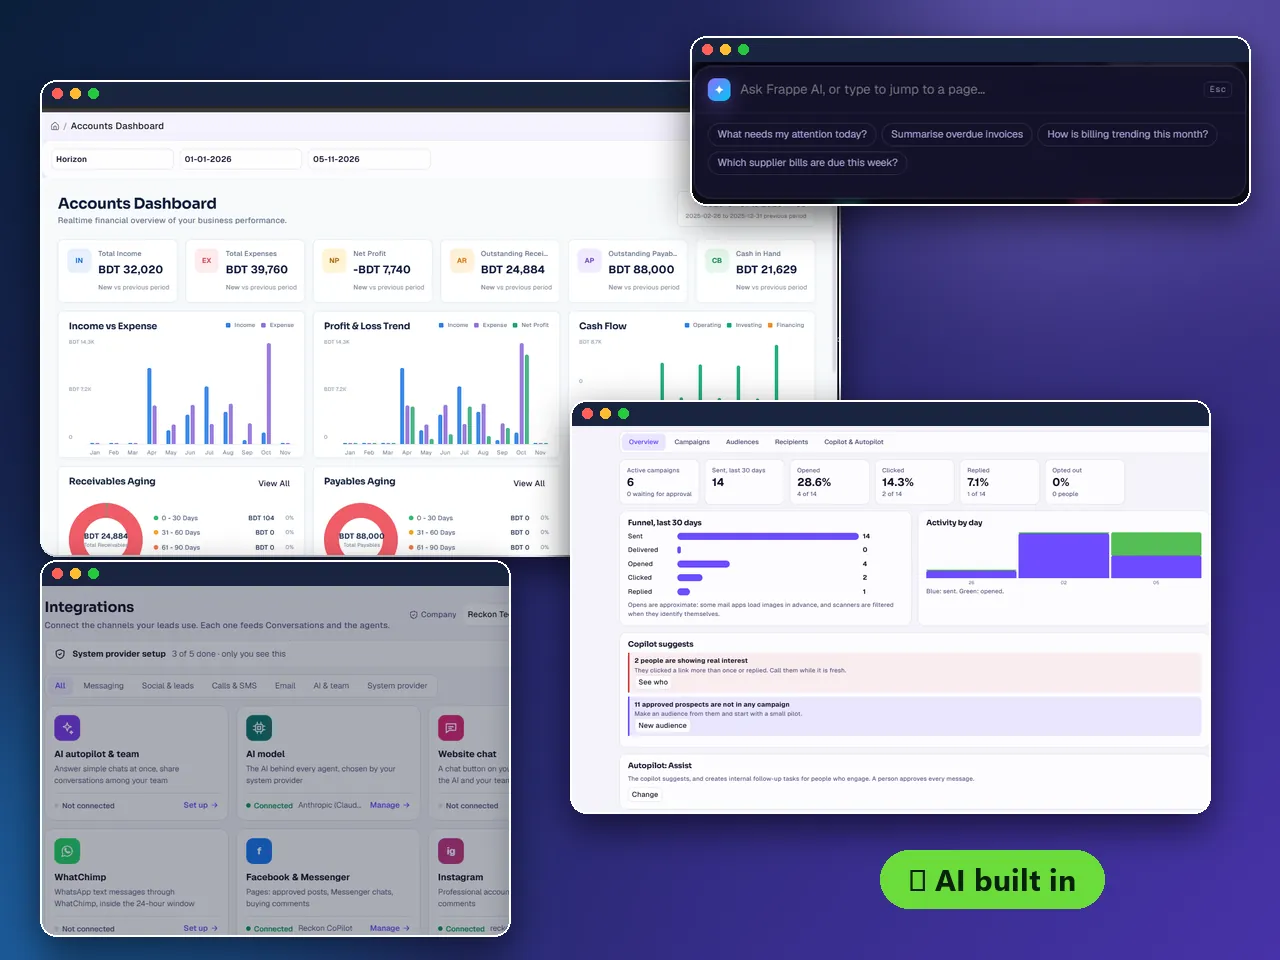
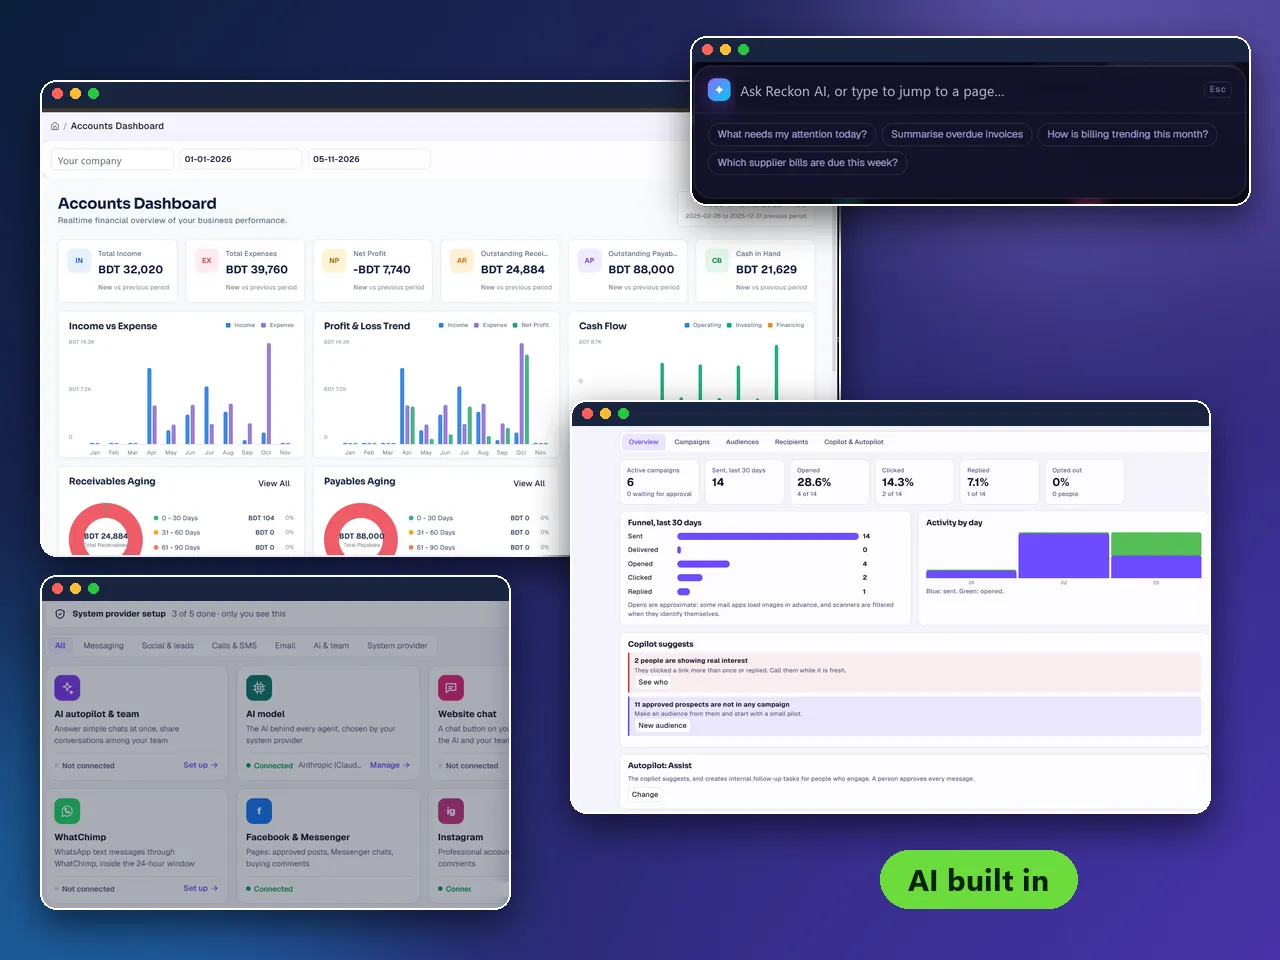
feat: Reckon AI branding, no framework name, product family and two feature pages
Hero screens redacted of demo company names; the AI palette now reads Ask Reckon AI.

diff --git a/reckon_saas_platform/www/index.html b/reckon_saas_platform/www/index.html
@@ -22,13 +22,13 @@
 <section class="ai-band" aria-labelledby="ai-h">
   <div class="wrap cols">
     <div>
-      <p class="eyebrow">AI inside every module</p>
+      <p class="eyebrow">Reckon AI inside every module</p>
       <h2 id="ai-h">AI that works on your own records, with a person in charge</h2>
       <ul class="tick">
         {% for point in ai_points %}<li>{{ point|e }}</li>{% endfor %}
       </ul>
       <p class="note">{{ ai_note|e }}</p>
-      <div class="actions"><a class="btn solid lg" href="/features/ai-assisted-selling">See AI features</a><a class="btn lg" href="/reckonerp-signup">Sign up</a></div>
+      <div class="actions"><a class="btn solid lg" href="/features/reckon-ai-assistant">Meet Reckon AI</a><a class="btn lg" href="/reckonerp-signup">Sign up</a></div>
     </div>
     <img src="/assets/reckon_saas_platform/images/illus-ai.svg" width="480" height="320" alt="AI assistant drafting a reply that waits for a person to approve" loading="lazy" decoding="async">
   </div>

diff --git a/reckon_saas_platform/www/reckon_modules.html b/reckon_saas_platform/www/reckon_modules.html
@@ -56,6 +56,17 @@
     </ul>
   </div>
 </section>
+<section class="alt" aria-labelledby="fam-h">
+  <div class="wrap">
+    <div class="head"><h2 id="fam-h">More from Reckon, on request</h2><p>{{ page.family_note|e }}</p></div>
+    <ul class="grid">
+      {% for app in page.family %}
+      <li><article class="card"><h3>{{ app.name|e }}</h3><p>{{ app.text|e }}</p>{% if app.url %}<a class="more" href="{{ app.url|e }}">Learn more<span class="sr"> about {{ app.name|e }}</span></a>{% endif %}</article></li>
+      {% endfor %}
+    </ul>
+    <p class="note"><a href="https://wa.me/{{ whatsapp_number|e }}" rel="noopener">Ask about these on WhatsApp</a> or write to <a href="mailto:{{ support_email|e }}">{{ support_email|e }}</a>.</p>
+  </div>
+</section>
 {{ m.cta("Pick a module and start", "Sign up, verify, and your workspace is created.", "/reckonerp-signup") }}
 {% endif %}
 {% endblock %}

diff --git a/reckon_saas_platform/marketing.py b/reckon_saas_platform/marketing.py
@@ -62,6 +62,8 @@ FEATURE_ILLUSTRATION = {
     "roles-and-security": "crm",
     "integrations-and-channels": "automation",
     "ai-assisted-selling": "ai",
+    "reckon-ai-assistant": "ai",
+    "field-sales-and-visits": "crm",
 }
 
 # Crawlers that fetch pages for search and AI answers. All are welcome on the
@@ -363,6 +365,63 @@ FEATURE_LIST = (
         ],
     },
     {
+        "slug": "reckon-ai-assistant",
+        "title": "Reckon AI assistant",
+        "icon": "spark",
+        "summary": "Ask questions about your own records and approve the actions it suggests.",
+        "description": "Reckon AI answers questions from your own ERP records, raises insights, "
+        "alerts and forecasts, and changes data only after you review and approve.",
+        "intro": "Reckon AI sits inside the ERP. It works from the records the signed-in person "
+        "is allowed to see, explains what needs attention, and proposes actions that the "
+        "person reviews before anything is applied.",
+        "points": [
+            "Answers questions from your own records, limited to what you may open",
+            "Insights, alerts, forecasting and anomaly detection for the numbers you track",
+            "A catalogue of suggested actions that learns from your feedback",
+            "Preview first: you review the values and approve, permissions are checked again "
+            "and every confirmed action is logged",
+        ],
+        "faqs": [
+            (
+                "Can Reckon AI change my data on its own?",
+                "No. It shows a preview of the target and values. Nothing is applied until you "
+                "approve, and the server checks your permissions again at that moment.",
+            ),
+            (
+                "Can it see other people's records?",
+                "It works inside the permissions of the person asking, so it cannot read what "
+                "that person cannot open.",
+            ),
+            (
+                "Is Reckon AI included in the subscription?",
+                "AI and integration tools are additional. Ask us for pricing for your usage.",
+            ),
+        ],
+    },
+    {
+        "slug": "field-sales-and-visits",
+        "title": "Field sales visits",
+        "icon": "route",
+        "summary": "Schedule customer visits, check in with GPS and keep a history of every visit.",
+        "description": "Plan field visits against leads, deals and customers, check in and out "
+        "with GPS, see visits on a map and keep outcomes and follow-ups.",
+        "intro": "Reckon CRM adds field sales to your customer records: managers schedule visits, "
+        "reps check in on site, and every completed visit keeps its outcome and next step.",
+        "points": [
+            "Schedule visits for several team members against a lead, deal or organisation",
+            "Interactive map with the customer's location and a geofence",
+            "GPS check-in and check-out at the time of the visit",
+            "Completed visits keep their outcome, notes, duration and follow-up date",
+        ],
+        "faqs": [
+            (
+                "Is field sales part of self-serve signup?",
+                "Reckon CRM is offered on request, on a dedicated cloud or on-premises. Message "
+                "us and we will set it up with you.",
+            ),
+        ],
+    },
+    {
         "slug": "ai-assisted-selling",
         "title": "AI-assisted selling",
         "icon": "spark",
@@ -377,7 +436,7 @@ FEATURE_LIST = (
             "Discovery campaigns that find businesses to contact",
             "Website research that keeps its evidence next to each claim",
             "Deterministic lead scoring you can read and explain",
-            "Frappe CRM sync and email sequences that wait for approval",
+            "CRM sync and email sequences that wait for approval",
         ],
         "faqs": [
             (
@@ -435,7 +494,7 @@ MODULE_COPY = {
         "benefits": [
             "Run discovery campaigns to find businesses worth contacting",
             "Research each lead from its website and keep the evidence",
-            "Score leads with fixed rules, then sync them to Frappe CRM",
+            "Score leads with fixed rules, then sync them to your CRM",
             "Send email, SMS and WhatsApp follow-ups only after a person approves",
         ],
         "faqs": [
@@ -469,7 +528,7 @@ FEATURE_LABELS = {
     "lead_discovery_campaigns": "Lead discovery campaigns",
     "website_research_with_evidence": "Website research with evidence",
     "deterministic_lead_scoring": "Rule-based lead scoring",
-    "frappe_crm_sync": "Frappe CRM sync",
+    "frappe_crm_sync": "CRM sync",
     "email_sequences_with_approval": "Email sequences with approval",
     "claude_ai_research_and_drafting": "AI research and drafting",
 }
@@ -484,11 +543,50 @@ SHOWCASE = (
 )
 
 AI_POINTS = (
-    "Reads and summarises invoices, orders, stock and customer records so people find answers faster",
+    "Reckon AI reads and summarises invoices, orders, stock and customer records so people find answers faster",
     "Researches leads from their own websites and keeps the evidence next to every claim",
     "Drafts replies and follow-ups; a person approves before anything is sent",
-    "Scores leads with fixed rules you can read, then syncs them to Frappe CRM",
+    "Scores leads with fixed rules you can read, then syncs them to your CRM",
 )
+FAMILY_APPS = (
+    {
+        "name": "Reckon AI assistant",
+        "text": "Ask questions about your own records, get insights and alerts, and approve "
+        "suggested actions.",
+        "url": "/features/reckon-ai-assistant",
+    },
+    {
+        "name": "Reckon CRM",
+        "text": "Field sales on your CRM: visit scheduling, GPS check-in and check-out, customer "
+        "maps and visit history.",
+        "url": "/features/field-sales-and-visits",
+    },
+    {
+        "name": "Reckon Constructions",
+        "text": "Construction projects from estimate to bill: BOQ revisions, measurements, rate "
+        "analysis, procurement, site execution, variations and progress certificates.",
+    },
+    {
+        "name": "Reckon HRMS",
+        "text": "Simple HR for small teams: employees, attendance, salary and bulk salary payment, "
+        "payslip PDFs and HR reports.",
+    },
+    {
+        "name": "Reckon HR Policy",
+        "text": "Configurable attendance consequences and payroll additions that follow your own "
+        "company policy.",
+    },
+    {
+        "name": "Restaurant and central kitchen",
+        "text": "Branches that share a central store and kitchen: requisition, stock movement, "
+        "production, delivery and branch-wise sales.",
+    },
+)
+FAMILY_NOTE = (
+    "These products are offered on request, on a dedicated cloud or on-premises, and are not on "
+    "self-serve signup yet. Customisation and implementation are quoted separately."
+)
+
 AI_NOTE = "AI and integration tools are billed separately from the module subscription."
 
 DEPLOYMENTS = (
@@ -511,7 +609,7 @@ DEPLOYMENTS = (
 HOME_FAQS = (
     (
         "What is ReckonERP?",
-        "ReckonERP is a cloud ERP for businesses in Bangladesh, built on ERPNext, with AI "
+        "ReckonERP is a cloud ERP for businesses in Bangladesh, built on ERPNext, with Reckon AI "
         "built in. You pick the modules you need, such as Distribution, Accounts or the "
         "Sales AI Agent, and each company works in its own private workspace.",
     ),
@@ -553,7 +651,7 @@ HOME_FAQS = (
     (
         "What about licences?",
         "ReckonERP is a subscription service: your subscription lets your company use the "
-        "modules you subscribed to. The platform is built on open-source ERPNext and Frappe. "
+        "modules you subscribed to. The platform is built on open-source ERP technology. "
         "Licence terms for dedicated and on-premises installations are agreed in the quote.",
     ),
     (
@@ -872,6 +970,8 @@ def modules_page(base: str, modules: list[dict]) -> dict:
         h1="Choose the modules your business needs",
         trail=[("Home", HOME), ("Modules", MODULES)],
         modules=modules,
+        family=FAMILY_APPS,
+        family_note=FAMILY_NOTE,
     )
 
 
@@ -951,6 +1051,9 @@ def llms_txt(base: str, modules: list[dict], integrations=None) -> str:
     ]
     for module in modules:
         lines.append(f"- [{module['name']}]({base}{module['url']}): {module['tagline']}")
+    lines += ["", "## More from Reckon (on request)", ""]
+    for app in FAMILY_APPS:
+        lines.append(f"- {app['name']}: {app['text']}")
     lines += ["", "## Features", ""]
     for feature in FEATURE_LIST:
         lines.append(f"- [{feature['title']}]({base}{feature_url(feature['slug'])}): {feature['summary']}")
@@ -978,7 +1081,7 @@ def site_base() -> str:
 
 
 def apply_context(context, page: dict, modules: list[dict]) -> None:
-    """Put a page description and the shared header/footer data on a Frappe web context."""
+    """Put a page description and the shared header/footer data on a web context."""
     context.page = page
     context.glyphs = GLYPHS
     context.nav_features = FEATURE_LIST

diff --git a/tests/test_marketing_site_unit.py b/tests/test_marketing_site_unit.py
@@ -78,6 +78,28 @@ class _Links(HTMLParser):
 
 
 class MarketingDataTests(unittest.TestCase):
+    def test_site_never_names_the_framework(self):
+        with platform_modules("marketing") as (frappe, (marketing,)):
+            modules = _modules(marketing, frappe)
+            pages = all_pages(marketing, modules)
+            text = json.dumps(pages, default=str) + marketing.llms_txt(BASE, modules)
+            text += marketing.robots_txt(BASE) + marketing.sitemap_xml(BASE, modules)
+        self.assertNotIn("frappe", text.lower())
+
+    def test_family_products_are_listed_on_the_modules_page(self):
+        with platform_modules("marketing") as (frappe, (marketing,)):
+            modules = _modules(marketing, frappe)
+            page = marketing.modules_page(BASE, modules)
+            llms = marketing.llms_txt(BASE, modules)
+            slugs = {f["slug"] for f in marketing.FEATURE_LIST}
+        names = [a["name"] for a in page["family"]]
+        for expected in ("Reckon AI assistant", "Reckon CRM", "Reckon Constructions", "Reckon HRMS"):
+            self.assertIn(expected, names)
+            self.assertIn(expected, llms)
+        for app in page["family"]:
+            if app.get("url"):
+                self.assertIn(app["url"].rsplit("/", 1)[1], slugs)
+
     def test_modules_come_from_the_registry(self):
         with platform_modules("marketing") as (frappe, (marketing,)):
             modules = _modules(marketing, frappe)
@@ -304,6 +326,7 @@ class MarketingRenderTests(unittest.TestCase):
             self.assertIn('name="twitter:card"', html)
             self.assertIn("application/ld+json", html)
             self.assertEqual(html.count("<title>"), 1)
+            self.assertNotIn("frappe", html.lower(), page["path"])
             for href in parser.hrefs:
                 if href.startswith(("#", "mailto:", "https://wa.me/", "https://www.reckon.tech/")):
                     continue
